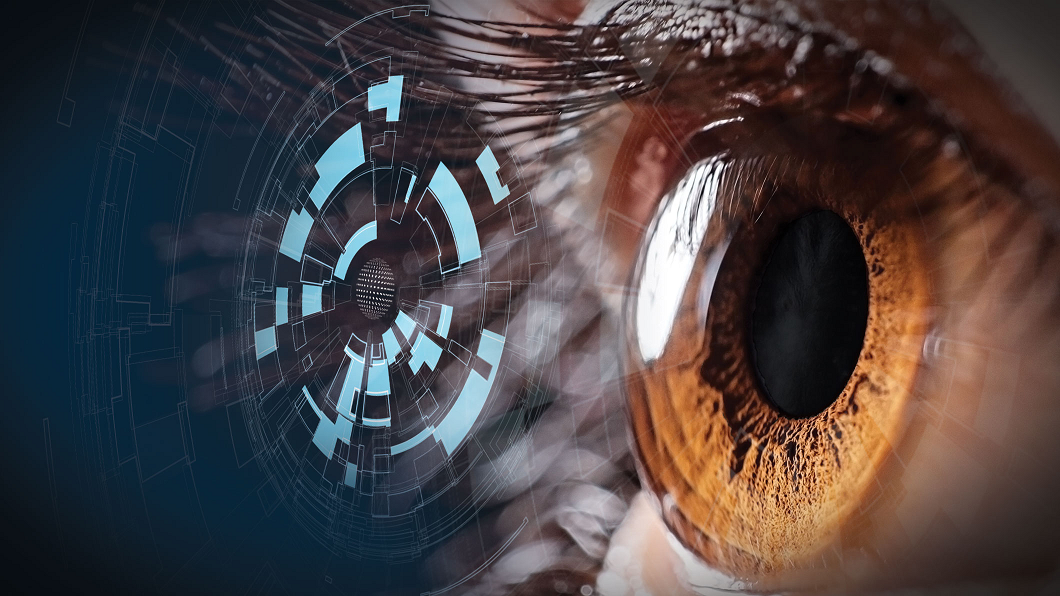
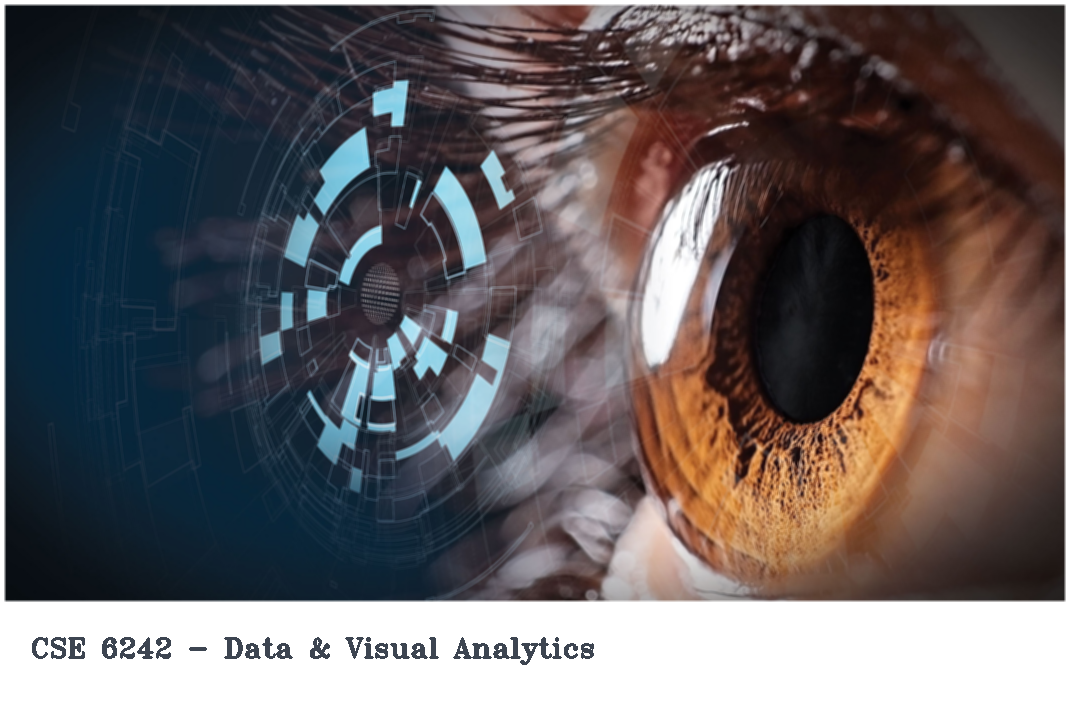
Added Images

diff --git a/CSE 6242 - Data & Visual Analytics/README.md b/CSE 6242 - Data & Visual Analytics/README.md
@@ -1,6 +1,6 @@
 ## CSE 6242 - Data and Visual Analytics
 
-<img src="https://github.com/Jadams29/Georgia-Tech/blob/master/misc/cs7642.png" align="center" width="900" height="500">
+<img src="https://github.com/Jadams29/Georgia-Tech/blob/master/misc/cse6242.png" align="center" width="900" height="500">
 
 
 ### Assignments
